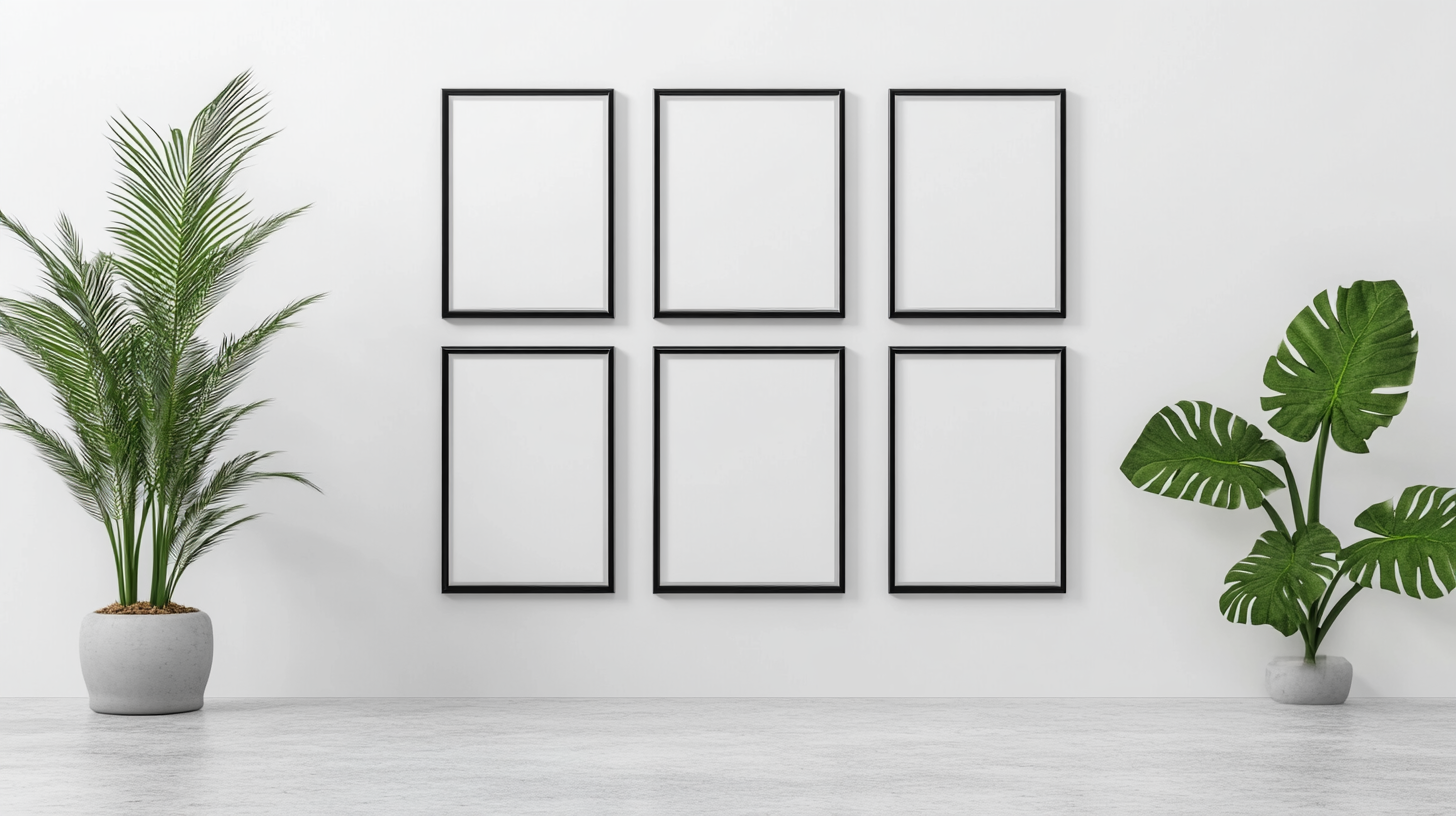
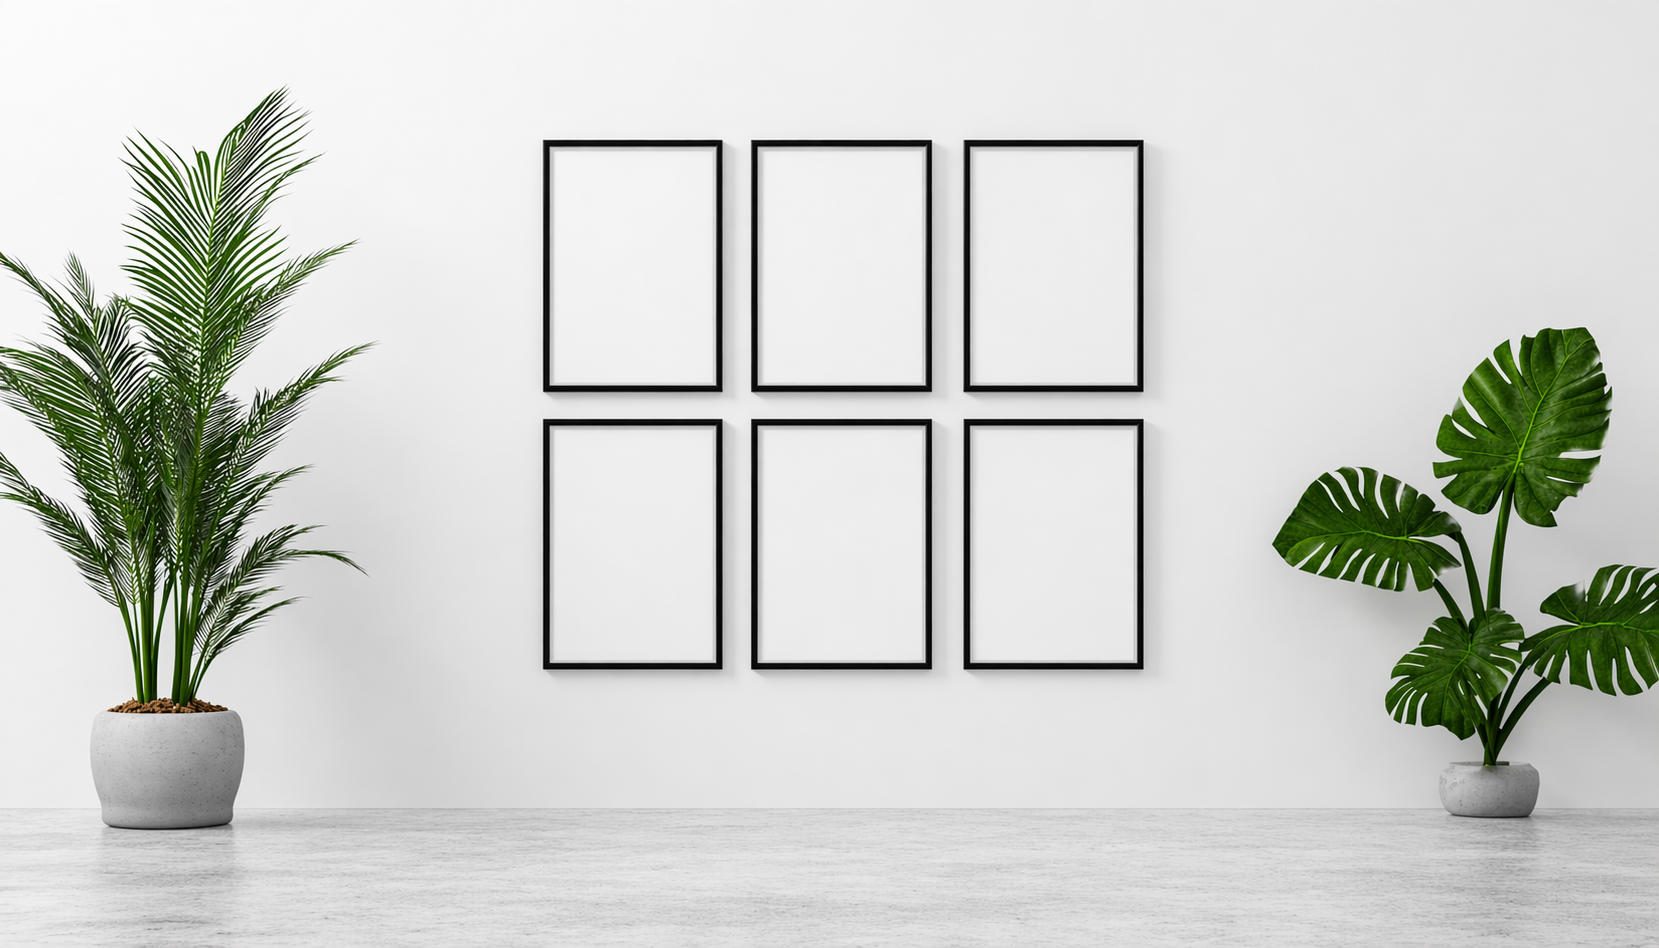
Travel guides - new wall image, custom photos, calibrated frame positions

diff --git a/src/App.jsx b/src/App.jsx
@@ -169,12 +169,12 @@ function HowItWorksSection(){
 // SECTION 3: TRAVEL GUIDES — picture frames on a wall
 // ══════════════════════════════════════════════════════════════
 const GUIDES=[
-  {city:"Madrid",country:"Spain",img:"https://images.unsplash.com/photo-1539037116277-4db20889f2d4?w=500&q=80",tagline:"Tapas, plazas & golden light",budget:"$2,800 – $4,200",duration:"7 nights",highlight:"Rooftop sunset at Círculo de Bellas Artes"},
-  {city:"Tuscany",country:"Italy",img:"https://images.unsplash.com/photo-1523531294919-4bcd7c65e216?w=500&q=80",tagline:"Rolling hills & Chianti roads",budget:"$3,200 – $5,000",duration:"8 nights",highlight:"Private vineyard tasting in Montalcino"},
-  {city:"Kauai",country:"Hawaii",img:"https://images.unsplash.com/photo-1505852679233-d9fd70aff56d?w=500&q=80",tagline:"The Garden Isle, untouched",budget:"$3,500 – $5,500",duration:"6 nights",highlight:"Nā Pali Coast helicopter tour at sunrise"},
-  {city:"Hvar",country:"Croatia",img:"https://images.unsplash.com/photo-1580502304784-8985b7eb7260?w=500&q=80",tagline:"Lavender, stone & Adriatic blue",budget:"$2,400 – $3,800",duration:"5 nights",highlight:"Sunset kayak to the Pakleni Islands"},
-  {city:"Seattle",country:"USA",img:"https://images.unsplash.com/photo-1438401171849-74ac270044ee?w=500&q=80",tagline:"Coffee, rain & emerald views",budget:"$1,800 – $3,000",duration:"4 nights",highlight:"Ferry ride to Bainbridge Island"},
-  {city:"Rome",country:"Italy",img:"https://images.unsplash.com/photo-1552832230-c0197dd311b5?w=500&q=80",tagline:"Eternal city, timeless film",budget:"$2,600 – $4,400",duration:"6 nights",highlight:"Private twilight Colosseum tour"},
+  {city:"Madrid",country:"Spain",img:"/Madrid.png",tagline:"Tapas, plazas & golden light",budget:"$2,800 – $4,200",duration:"7 nights",highlight:"Rooftop sunset at Círculo de Bellas Artes"},
+  {city:"Tuscany",country:"Italy",img:"/Tuscany.png",tagline:"Rolling hills & Chianti roads",budget:"$3,200 – $5,000",duration:"8 nights",highlight:"Private vineyard tasting in Montalcino"},
+  {city:"Kauai",country:"Hawaii",img:"/Kauai.png",tagline:"The Garden Isle, untouched",budget:"$3,500 – $5,500",duration:"6 nights",highlight:"Nā Pali Coast helicopter tour at sunrise"},
+  {city:"Hvar",country:"Croatia",img:"/Hvar.png",tagline:"Lavender, stone & Adriatic blue",budget:"$2,400 – $3,800",duration:"5 nights",highlight:"Sunset kayak to the Pakleni Islands"},
+  {city:"Seattle",country:"USA",img:"/Seattle.png",tagline:"Coffee, rain & emerald views",budget:"$1,800 – $3,000",duration:"4 nights",highlight:"Ferry ride to Bainbridge Island"},
+  {city:"Rome",country:"Italy",img:"/Rome.png",tagline:"Eternal city, timeless film",budget:"$2,600 – $4,400",duration:"6 nights",highlight:"Private twilight Colosseum tour"},
 ];
 
 function GuideModal({guide,onClose}){
@@ -218,32 +218,91 @@ function GuideModal({guide,onClose}){
 
 function TravelGuidesSection(){
   const[selected,setSelected]=useState(null);
-  const frames=[
-    {left:30.77,top:4.94,width:11.02,height:31.22,...GUIDES[0]},
-    {left:45.28,top:5.05,width:12.43,height:31.22,...GUIDES[1]},
-    {left:61.47,top:4.94,width:11.38,height:31.33,...GUIDES[2]},
-    {left:30.82,top:42.14,width:11.02,height:33.49,...GUIDES[3]},
-    {left:45.33,top:42.25,width:12.32,height:33.49,...GUIDES[4]},
-    {left:61.47,top:42.25,width:11.38,height:33.49,...GUIDES[5]},
-  ];
+  // Set debug=true to show draggable orange boxes for calibrating frame positions
+  const debug=false;
+  const[positions,setPositions]=useState([
+    {left:33.07,top:8.67,width:10.16,height:30.24},
+    {left:45.66,top:8.6,width:10.22,height:30.36},
+    {left:58.44,top:8.79,width:10.1,height:30.12},
+    {left:33.11,top:43.99,width:10.22,height:29.87},
+    {left:45.66,top:43.99,width:10.27,height:29.87},
+    {left:58.45,top:43.87,width:10.22,height:30.12},
+  ]);
+  const dragging=useRef(null);
+  const containerRef=useRef(null);
+
+  const onMouseDown=(i,e,mode='move')=>{
+    if(!debug)return;
+    e.preventDefault();
+    e.stopPropagation();
+    dragging.current={i,mode,startX:e.clientX,startY:e.clientY,orig:{...positions[i]}};
+  };
+  const onMouseMove=useCallback((e)=>{
+    if(!debug||!dragging.current)return;
+    const{i,mode,startX,startY,orig}=dragging.current;
+    const el=containerRef.current;if(!el)return;
+    const r=el.getBoundingClientRect();
+    const dx=(e.clientX-startX)/r.width*100;
+    const dy=(e.clientY-startY)/r.height*100;
+    setPositions(prev=>prev.map((p,idx)=>{
+      if(idx!==i)return p;
+      if(mode==='move') return{...p,left:Math.round((orig.left+dx)*100)/100,top:Math.round((orig.top+dy)*100)/100};
+      if(mode==='resize-br') return{...p,width:Math.max(1,Math.round((orig.width+dx)*100)/100),height:Math.max(1,Math.round((orig.height+dy)*100)/100)};
+      if(mode==='resize-r') return{...p,width:Math.max(1,Math.round((orig.width+dx)*100)/100)};
+      if(mode==='resize-b') return{...p,height:Math.max(1,Math.round((orig.height+dy)*100)/100)};
+      if(mode==='resize-l') return{...p,left:Math.round((orig.left+dx)*100)/100,width:Math.max(1,Math.round((orig.width-dx)*100)/100)};
+      if(mode==='resize-t') return{...p,top:Math.round((orig.top+dy)*100)/100,height:Math.max(1,Math.round((orig.height-dy)*100)/100)};
+      return p;
+    }));
+  },[debug]);
+  const onMouseUp=useCallback(()=>{dragging.current=null;},[]);
+
+  useEffect(()=>{
+    if(!debug)return;
+    window.addEventListener("mousemove",onMouseMove);
+    window.addEventListener("mouseup",onMouseUp);
+    return()=>{window.removeEventListener("mousemove",onMouseMove);window.removeEventListener("mouseup",onMouseUp);};
+  },[debug,onMouseMove,onMouseUp]);
+
+  const frames=positions.map((p,i)=>({...p,...GUIDES[i]}));
+
   return(
-    <section style={{width:"100vw",height:"100vh",position:"relative",overflow:"hidden",flexShrink:0}}>
+    <section ref={containerRef} style={{width:"100vw",height:"100vh",position:"relative",overflow:"hidden",flexShrink:0}}>
       <img src="/guides-wall.png" alt="" style={{position:"absolute",top:0,left:0,width:"100%",height:"100%",objectFit:"cover",objectPosition:"center",pointerEvents:"none"}}/>
-      {/* Title — right of frames, top-aligned with Kauai frame, left-aligned text */}
+      {/* Title */}
       <div style={{position:"absolute",left:"77.77%",top:"3.45%",textAlign:"left",zIndex:2}}>
         <div style={{fontSize:"clamp(9px,0.85vw,12px)",fontWeight:600,letterSpacing:"0.2em",textTransform:"uppercase",color:"#C8956C",fontFamily:"'Cormorant Garamond',serif",marginBottom:6}}>Explore</div>
         <h2 style={{fontSize:"clamp(20px,2.5vw,34px)",fontWeight:300,color:"#2A2420",fontFamily:"'Cormorant Garamond',serif",margin:0,lineHeight:1.15,textShadow:"0 1px 12px rgba(255,255,255,0.8)"}}>
           Travel<br/>Guide<br/><span style={{fontStyle:"italic",color:"#C8956C"}}>Showcase</span>
         </h2>
       </div>
+
+      {/* Debug: copy positions button */}
+      {debug&&<button onClick={()=>{const txt=positions.map((p,i)=>`Frame ${i+1}: left=${p.left}%, top=${p.top}%, width=${p.width}%, height=${p.height}%`).join('\n');navigator.clipboard.writeText(txt);alert('Positions copied!\n\n'+txt);}} style={{position:"absolute",top:10,right:10,zIndex:200,padding:"8px 16px",background:"#FF6B35",color:"#fff",border:"none",borderRadius:8,cursor:"pointer",fontSize:12,fontWeight:700}}>Copy Positions</button>}
+
       {/* Photos positioned over frames */}
       {frames.map((f,i)=>(
-        <div key={i} style={{position:"absolute",left:f.left+"%",top:f.top+"%",width:f.width+"%",height:f.height+"%",zIndex:1}}>
-          <div onClick={()=>setSelected(f)} style={{width:"100%",height:"100%",overflow:"hidden",cursor:"pointer"}}>
+        <div key={i}
+          onMouseDown={(e)=>onMouseDown(i,e)}
+          style={{position:"absolute",left:f.left+"%",top:f.top+"%",width:f.width+"%",height:f.height+"%",zIndex:1,cursor:debug?"move":"pointer",border:debug?"2px solid #FF6B35":"none",background:debug?"rgba(255,107,53,0.15)":"transparent"}}>
+          {debug&&<>
+            <div style={{position:"absolute",top:0,left:0,background:"#FF6B35",color:"#fff",fontSize:9,padding:"2px 4px",fontWeight:700,zIndex:10,pointerEvents:"none"}}>{i+1}: {f.left}%,{f.top}% | {f.width}x{f.height}</div>
+            {/* Right handle */}
+            <div onMouseDown={(e)=>onMouseDown(i,e,'resize-r')} style={{position:"absolute",right:-4,top:"10%",width:8,height:"80%",background:"#FF6B35",cursor:"ew-resize",zIndex:20,borderRadius:2}}/>
+            {/* Left handle */}
+            <div onMouseDown={(e)=>onMouseDown(i,e,'resize-l')} style={{position:"absolute",left:-4,top:"10%",width:8,height:"80%",background:"#FF6B35",cursor:"ew-resize",zIndex:20,borderRadius:2}}/>
+            {/* Bottom handle */}
+            <div onMouseDown={(e)=>onMouseDown(i,e,'resize-b')} style={{position:"absolute",bottom:-4,left:"10%",height:8,width:"80%",background:"#FF6B35",cursor:"ns-resize",zIndex:20,borderRadius:2}}/>
+            {/* Top handle */}
+            <div onMouseDown={(e)=>onMouseDown(i,e,'resize-t')} style={{position:"absolute",top:-4,left:"10%",height:8,width:"80%",background:"#FF6B35",cursor:"ns-resize",zIndex:20,borderRadius:2}}/>
+            {/* Bottom-right corner handle */}
+            <div onMouseDown={(e)=>onMouseDown(i,e,'resize-br')} style={{position:"absolute",bottom:-6,right:-6,width:12,height:12,background:"#fff",border:"2px solid #FF6B35",cursor:"nwse-resize",zIndex:20,borderRadius:2}}/>
+          </>}
+          {!debug&&<div onClick={()=>setSelected(f)} style={{width:"100%",height:"100%",overflow:"hidden",cursor:"pointer"}}>
             <img src={f.img} alt={f.city} style={{width:"100%",height:"100%",objectFit:"cover",display:"block",transition:"transform 0.5s cubic-bezier(0.16,1,0.3,1)",filter:"brightness(0.97)"}}
               onMouseOver={e=>{e.currentTarget.style.transform="scale(1.06)";e.currentTarget.style.filter="brightness(1.02)";}}
               onMouseOut={e=>{e.currentTarget.style.transform="scale(1)";e.currentTarget.style.filter="brightness(0.97)";}}/>
-          </div>
+          </div>}
         </div>
       ))}
       <GuideModal guide={selected} onClose={()=>setSelected(null)}/>